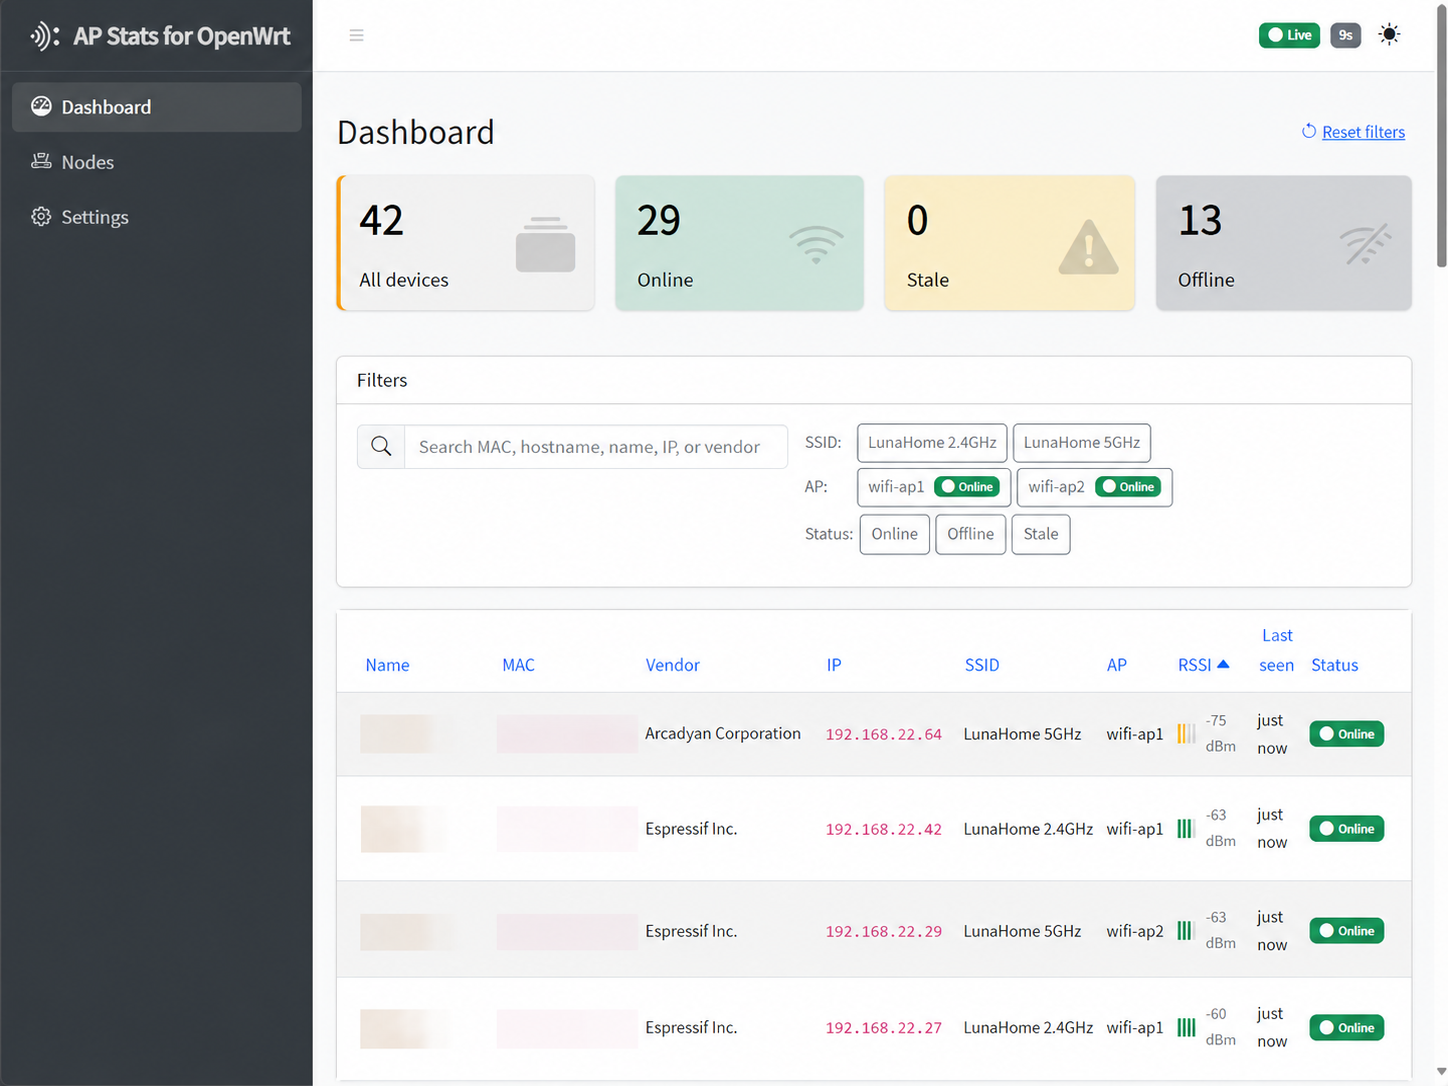
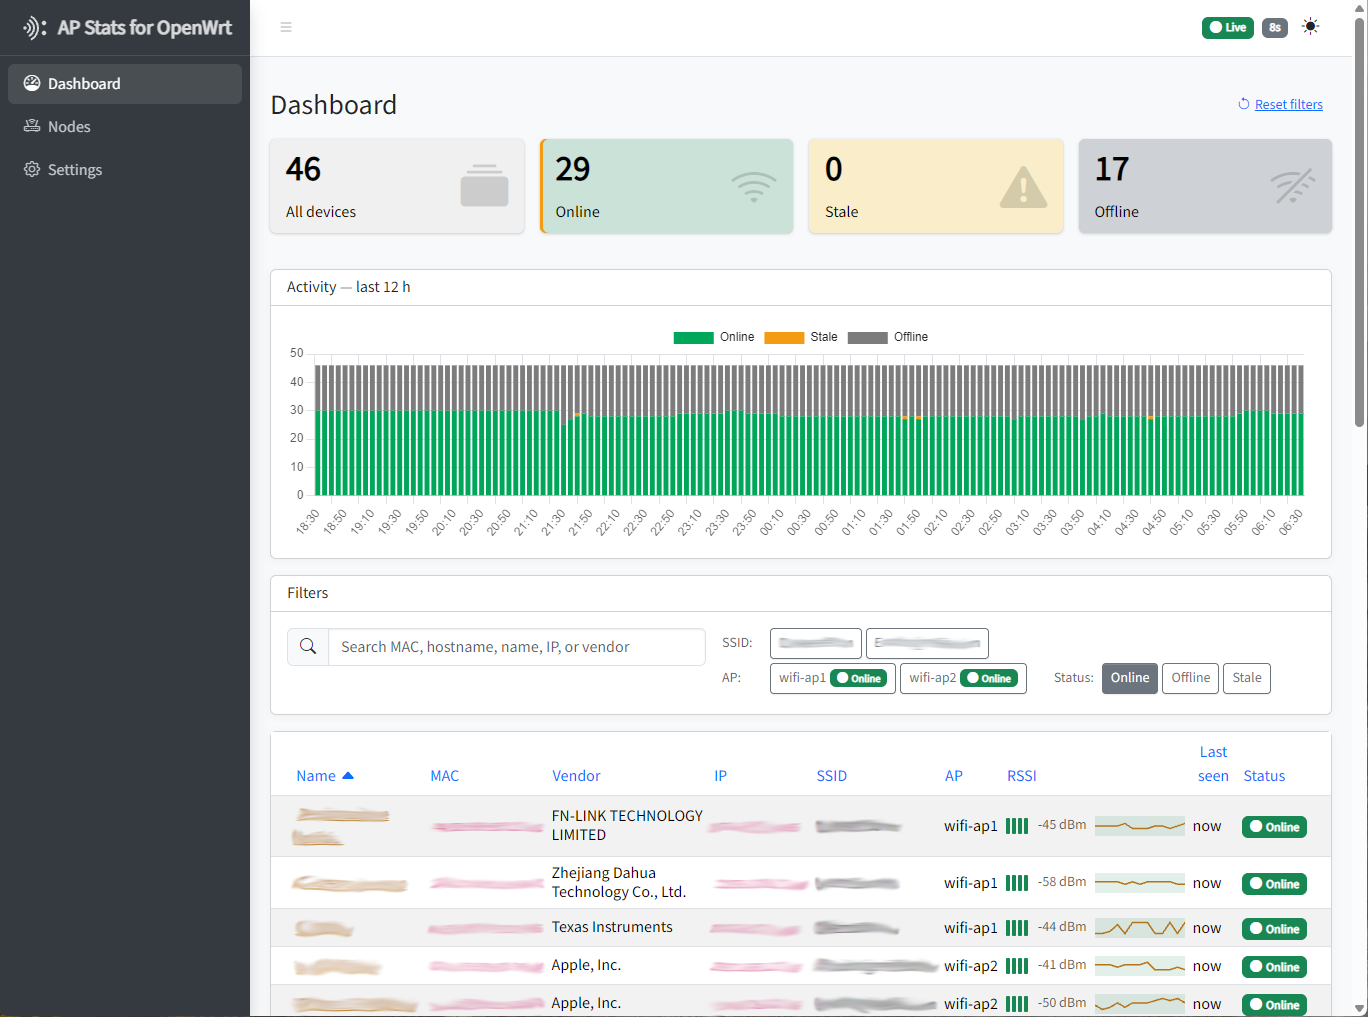
readme update

Changed region(s): [[0.0, 0.0, 1.0, 1.0], [0.4298, 0.5792, 0.9825, 0.7011]]

diff --git a/README.md b/README.md
@@ -36,7 +36,7 @@ If you run one or more OpenWRT access points, you already know the problem: LuCI
 - **Active enrichment** — batched `arping` sweep with `ping` fallback, reverse-DNS resolution, random-MAC detection, AssignedName / Hostname / MAC display cascade.
 - **Per-station detail page** — rename, delete, mark as random-MAC, and a confirmation-gated *Disconnect station* write-side SSH action.
 - **First-run wizard** — set the UI password, declare your first AP, choose WLANs to monitor. No config files to hand-edit. See [first-boot](docs/first-boot.md).
-- **Visitor-gated polling** — the background poller is suspended while no browser session is open and resumes the moment you open the dashboard. A separate `/health` HTTP endpoint stays available for external monitoring without counting toward the gate.
+- **Visitor-gated polling** — If the historical data service is disabled, the background poller is suspended whenever no browser session is open, and resumes as soon as you open the dashboard. A separate `/health` HTTP endpoint remains available for external monitoring and does not count toward the gate.
 - **Encrypted credentials at rest** — each AP password is encrypted with ASP.NET Data Protection; the optional UI password is stored as a PBKDF2 hash. See the [threat model](docs/threat-model.md).
 - **Single image, single SQLite file** — stop the container, copy `/data`, and your entire deployment is portable. See [backup](docs/backup.md).
 - **Automatic update check** — a daily, visitor-gated query to the GitHub Releases API surfaces a newer published release via a calm navbar badge, a one-time toast, and a Settings card. Notify-only; toggle it off for zero outbound traffic.
